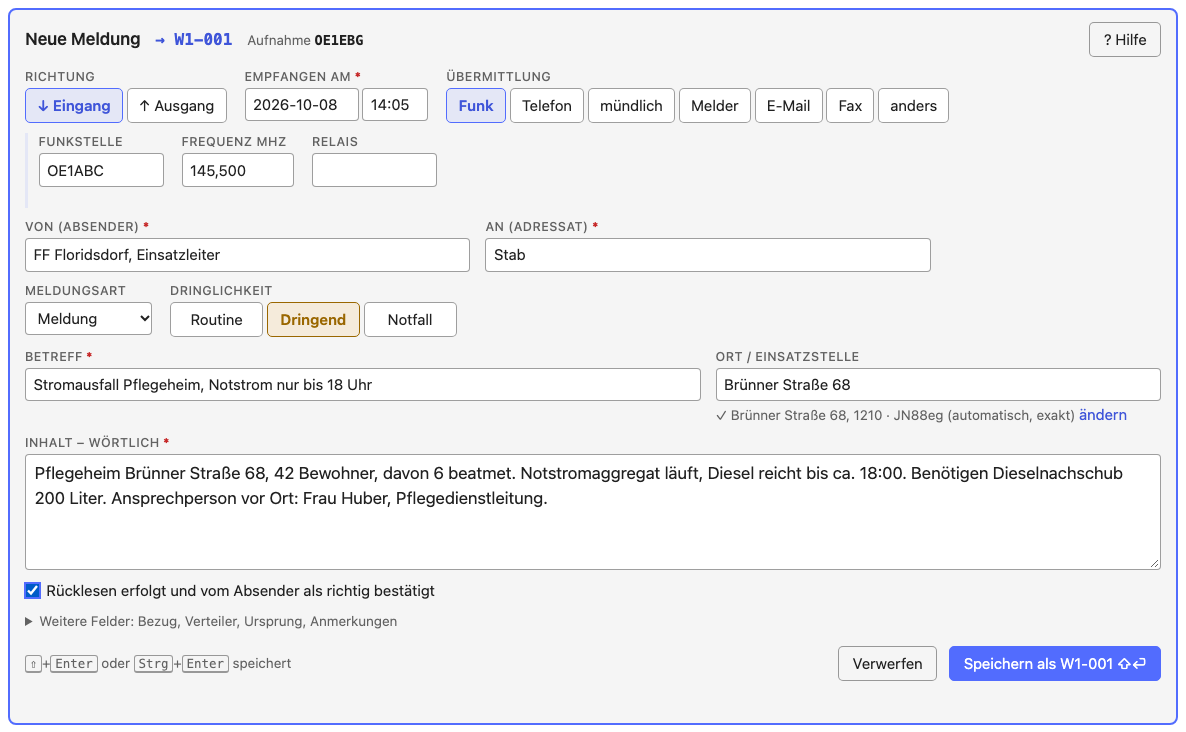
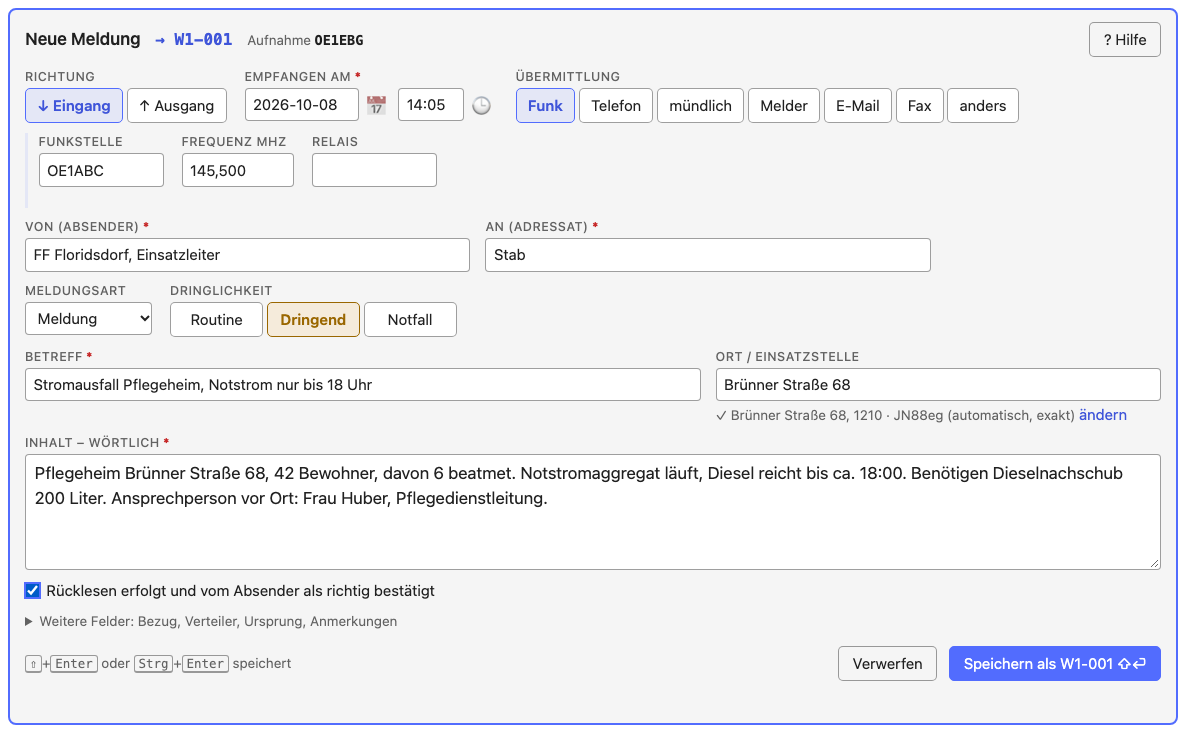
feat(notfunk): own date and time pickers; staff block for the Meldesammelstelle
- js/picker.js: a calendar (week from Monday, German month names) and a
  time grid (hours 00–23, minutes in steps of 5) next to every date and
  time field, with "Heute"/"Jetzt"; an empty field opens on now. They
  write YYYY-MM-DD and HH:MM (24 h), the same in every browser, unlike
  the native pickers. The buttons are no Tab stops; Esc closes; arrows
  and PageUp/PageDown move in the calendar.
- Printout: the block on top is "Nur von der Meldesammelstelle
  auszufüllen" (no longer "/ dem Stab").

Changed region(s): [[0.312, 0.0902, 0.8423, 0.1803]]

diff --git a/tools/notfunk/js/picker.js b/tools/notfunk/js/picker.js
@@ -1,0 +1,166 @@
+// Date and time pickers for the text fields of the message book: a button
+// next to the field opens a small calendar (week from Monday) or a time
+// grid (hours 00–23, minutes in steps of 5). They write the one format of
+// the fields, YYYY-MM-DD and HH:MM (24 hours), never the browser's locale,
+// and work the same everywhere (also Safari 15.4, offline). Typing stays
+// the fast way: the buttons are no Tab stops. An empty field opens on
+// "now" (today, the current hour), and both have a "Jetzt" button.
+//
+// pickerMonth() and shiftMonth() are pure (node-tested); the rest is DOM.
+
+import { el, fill } from '../../shared/js/dom.js';
+import { nowIso } from '../../shared/js/time.js';
+import { dateText, clockText, normDate, normTime } from './form.js';
+
+const MONTH_NAMES = ['Jänner', 'Februar', 'März', 'April', 'Mai', 'Juni', 'Juli', 'August', 'September', 'Oktober', 'November', 'Dezember'];
+const WEEKDAYS = ['Mo', 'Di', 'Mi', 'Do', 'Fr', 'Sa', 'So'];
+
+// 'YYYY-MM' moved by n months.
+export function shiftMonth(ym, n) {
+  const [y, m] = ym.split('-').map(Number);
+  const d = new Date(Date.UTC(y, m - 1 + n, 1));
+  return d.toISOString().slice(0, 7);
+}
+
+// The calendar of a month: { title: 'Oktober 2026', weeks: [[date|null ×7]] },
+// weeks from Monday, dates as 'YYYY-MM-DD'.
+export function pickerMonth(ym) {
+  const [y, m] = ym.split('-').map(Number);
+  const first = (new Date(Date.UTC(y, m - 1, 1)).getUTCDay() + 6) % 7; // Monday = 0
+  const days = new Date(Date.UTC(y, m, 0)).getUTCDate();
+  const cells = [...Array(first).fill(null), ...Array.from({ length: days }, (_, i) => `${ym}-${String(i + 1).padStart(2, '0')}`)];
+  while (cells.length % 7) cells.push(null);
+  const weeks = [];
+  for (let i = 0; i < cells.length; i += 7) weeks.push(cells.slice(i, i + 7));
+  return { title: `${MONTH_NAMES[m - 1]} ${y}`, weeks };
+}
+
+function addDays(date, n) {
+  const [y, m, d] = date.split('-').map(Number);
+  return new Date(Date.UTC(y, m - 1, d + n)).toISOString().slice(0, 10);
+}
+
+let pickerSeq = 0;
+let openPicker = null; // { pop, close }
+
+function setValue(input, value) {
+  input.value = value;
+  input.dispatchEvent(new Event('input', { bubbles: true }));
+  input.dispatchEvent(new Event('change', { bubbles: true }));
+}
+
+// Wraps the input with its button and dropdown; kind 'date' or 'time'.
+// next: the field to focus after a pick (the time field after the date).
+function attachPicker(input, kind, next) {
+  const id = `dt-pop-${++pickerSeq}`;
+  const label = kind === 'date' ? 'Kalender' : 'Uhrzeit wählen';
+  const pop = el('div', { class: 'dt-pop', id, role: 'dialog', 'aria-label': label, hidden: '' });
+  const btn = el('button', {
+    type: 'button', class: 'dt-btn', tabindex: '-1', 'aria-label': label, title: label,
+    'aria-haspopup': 'dialog', 'aria-expanded': 'false', 'aria-controls': id,
+  }, el('span', { 'aria-hidden': 'true' }, kind === 'date' ? '📅' : '🕒'));
+  // inside a <label> the button's name would join the field's: the field
+  // keeps the label's text as its own name
+  const outer = input.closest('label');
+  if (outer && !input.hasAttribute('aria-label') && !input.hasAttribute('aria-labelledby')) input.setAttribute('aria-label', outer.textContent.trim());
+  const wrap = el('span', { class: 'dt-wrap' });
+  input.replaceWith(wrap);
+  wrap.append(input, btn, pop);
+
+  let view = '';   // date: the month shown ('YYYY-MM'); time: the hour chosen
+  let focus = '';  // date: the day with focus
+
+  const close = (back = false) => {
+    if (pop.hidden) return;
+    pop.hidden = true;
+    btn.setAttribute('aria-expanded', 'false');
+    if (openPicker?.pop === pop) openPicker = null;
+    if (back) input.focus();
+  };
+  const pick = value => {
+    setValue(input, value);
+    close();
+    (next || input).focus();
+  };
+
+  const renderDate = () => {
+    const today = dateText(nowIso());
+    const chosen = normDate(input.value) || '';
+    const { title, weeks } = pickerMonth(view);
+    // the one day that is a Tab stop: the focused, chosen or current day
+    // of this month, else the 1st
+    const target = [focus, chosen, today].find(d => d && d.startsWith(view)) || `${view}-01`;
+    const nav = (n, text, name) => el('button', { type: 'button', class: 'dt-nav', 'aria-label': name, onclick: () => { view = shiftMonth(view, n); focus = ''; renderDate(); } }, text);
+    fill(pop,
+      el('div', { class: 'dt-head' }, nav(-1, '‹', 'Voriger Monat'), el('b', { 'aria-live': 'polite' }, title), nav(1, '›', 'Nächster Monat')),
+      el('div', { class: 'dt-grid dt-days', role: 'grid' },
+        ...WEEKDAYS.map(w => el('span', { class: 'dt-wd', 'aria-hidden': 'true' }, w)),
+        ...weeks.flat().map(d => (d
+          ? el('button', {
+            type: 'button', class: ['dt-day', d === today ? 'today' : '', d === chosen ? 'on' : ''].filter(Boolean).join(' '),
+            'data-date': d, tabindex: d === target ? '0' : '-1',
+            'aria-label': `${Number(d.slice(8))}. ${title}`, 'aria-pressed': String(d === chosen), onclick: () => pick(d),
+          }, String(Number(d.slice(8))))
+          : el('span', { class: 'dt-empty' })))),
+      el('div', { class: 'dt-foot' }, el('button', { type: 'button', onclick: () => pick(dateText(nowIso())) }, 'Heute')));
+  };
+
+  const renderTime = () => {
+    const now = clockText(nowIso());
+    const chosen = normTime(input.value) || '';
+    const hour = view || (chosen || now).slice(0, 2);
+    const minute = chosen ? chosen.slice(3) : '';
+    const cell = (text, on, current, onclick, name) => el('button', {
+      type: 'button', class: ['dt-cell', on ? 'on' : '', current ? 'today' : ''].filter(Boolean).join(' '), 'aria-pressed': String(on), 'aria-label': name, onclick,
+    }, text);
+    const hh = Array.from({ length: 24 }, (_, h) => String(h).padStart(2, '0'));
+    const mm = Array.from({ length: 12 }, (_, i) => String(i * 5).padStart(2, '0'));
+    fill(pop,
+      el('div', { class: 'dt-cap' }, 'Stunde'),
+      el('div', { class: 'dt-grid dt-hours' }, ...hh.map(h => cell(h, h === hour, h === now.slice(0, 2), () => { view = h; renderTime(); pop.querySelector('.dt-mins button')?.focus(); }, `${h} Uhr`))),
+      el('div', { class: 'dt-cap' }, 'Minute'),
+      el('div', { class: 'dt-grid dt-mins' }, ...mm.map(m => cell(`:${m}`, chosen.slice(0, 2) === hour && m === minute, false, () => pick(`${hour}:${m}`), `${hour}:${m}`))),
+      el('div', { class: 'dt-foot' }, el('button', { type: 'button', onclick: () => pick(now) }, 'Jetzt')));
+  };
+
+  const open = () => {
+    openPicker?.close();
+    if (kind === 'date') { view = (normDate(input.value) || dateText(nowIso())).slice(0, 7); focus = ''; renderDate(); } else { view = ''; renderTime(); }
+    pop.hidden = false;
+    btn.setAttribute('aria-expanded', 'true');
+    openPicker = { pop, close };
+    (pop.querySelector('.dt-day[tabindex="0"]') || pop.querySelector('.dt-hours .dt-cell.on') || pop.querySelector('button'))?.focus();
+  };
+
+  btn.addEventListener('click', () => (pop.hidden ? open() : close(true)));
+  pop.addEventListener('keydown', ev => {
+    if (ev.key === 'Escape') { ev.preventDefault(); ev.stopPropagation(); close(true); return; }
+    const day = ev.target.closest?.('.dt-day');
+    if (!day || kind !== 'date') return;
+    const step = { ArrowLeft: -1, ArrowRight: 1, ArrowUp: -7, ArrowDown: 7 }[ev.key];
+    const months = { PageUp: -1, PageDown: 1 }[ev.key];
+    if (!step && !months) return;
+    ev.preventDefault();
+    if (step) focus = addDays(day.dataset.date, step);
+    else { const [y, m, d] = day.dataset.date.split('-'); view = shiftMonth(`${y}-${m}`, months); focus = `${view}-${d}`; }
+    if (focus.slice(0, 7) !== view) view = focus.slice(0, 7);
+    renderDate();
+    // a day past the month's end (31 → 30) falls back to the last day
+    (pop.querySelector(`[data-date="${focus}"]`) || [...pop.querySelectorAll('.dt-day')].pop())?.focus();
+  });
+}
+
+// One click or tap outside closes the open picker.
+globalThis.document?.addEventListener('pointerdown', ev => {
+  if (openPicker && !openPicker.pop.parentNode.contains(ev.target)) openPicker.close();
+});
+
+// The pickers for a date + time pair (time optional) and for lone time fields.
+export function attachDatePicker(dateInput, timeInput = null) {
+  attachPicker(dateInput, 'date', timeInput);
+  if (timeInput) attachPicker(timeInput, 'time', null);
+}
+
+export function attachTimePicker(timeInput) {
+  attachPicker(timeInput, 'time', null);
+}

diff --git a/tools/notfunk/style.css b/tools/notfunk/style.css
@@ -114,9 +114,38 @@ details.hdr .hint{ margin:.6em 0 0; }
 /* date and time side by side (text in a fixed format, never the browser's
    locale; the zone choice only in the
    hour that repeats when the clocks go back) */
-.dt-pair{ display:flex; flex-wrap:wrap; gap:.3em; align-items:center; }
-.dt-pair input.dt-date{ width:7.6em; }
-.dt-pair input.dt-time{ width:4.4em; }
+.dt-pair{ display:flex; flex-wrap:wrap; gap:.3em .5em; align-items:center; }
+/* field + picker button + dropdown (js/picker.js); the dropdown keeps its
+   own text style inside the uppercase field labels */
+label.field > span.dt-wrap, .dt-wrap{ position:relative; display:inline-flex; align-items:center; gap:.15em; text-transform:none; letter-spacing:0; font-weight:normal; color:var(--text); }
+.dt-wrap > input.dt-date.mono{ width:7.6em; flex:none; box-sizing:border-box; }
+.dt-wrap > input.dt-time.mono{ width:4.4em; flex:none; box-sizing:border-box; }
+.dt-btn{ padding:.2em .35em; line-height:1.2; font-size:15px; background:none; border-color:transparent; }
+.dt-btn:hover{ border-color:var(--line-strong); }
+.dt-pop{
+  position:absolute; top:calc(100% + 2px); left:0; z-index:30; width:max-content;
+  padding:.45em; background:var(--bg); border:1px solid var(--accent); border-radius:6px; box-shadow:0 6px 18px #0003;
+  font-size:14px;
+}
+.dt-pop[hidden]{ display:none !important; }
+.dt-head{ display:flex; align-items:center; justify-content:space-between; gap:.5em; margin-bottom:.3em; }
+.dt-nav{ padding:.1em .6em; font-size:16px; }
+.dt-grid{ display:grid; gap:2px; }
+.dt-days{ grid-template-columns:repeat(7, 2.3em); }
+.dt-hours{ grid-template-columns:repeat(6, 2.6em); }
+.dt-mins{ grid-template-columns:repeat(6, 2.6em); }
+.dt-wd{ text-align:center; font-size:12.5px; color:var(--text-dim); padding:.15em 0; }
+.dt-day, .dt-cell{ padding:.3em 0; font-family:var(--font-mono); font-size:14px; border-color:transparent; background:none; }
+.dt-day:hover, .dt-cell:hover, .dt-day:focus, .dt-cell:focus{ background:var(--accent-soft); outline:none; }
+.dt-day.today, .dt-cell.today{ border-color:var(--line-strong); }
+.dt-day.on, .dt-cell.on{ border-color:var(--accent); color:var(--accent-text); font-weight:700; background:var(--accent-soft); }
+.dt-cap{ font-size:12.5px; color:var(--text-dim); margin:.3em 0 .15em; }
+.dt-foot{ display:flex; justify-content:flex-end; margin-top:.4em; }
+@media (pointer: coarse){
+  .dt-btn{ min-width:44px; }
+  .dt-days{ grid-template-columns:repeat(7, 2.8em); }
+  .dt-hours, .dt-mins{ grid-template-columns:repeat(6, 3em); }
+}
 .row-flow .channel-field{ flex:1 1 20em; min-width:0; }
 
 /* the priority buttons: equal width and height */

diff --git a/tools/notfunk/js/app.js b/tools/notfunk/js/app.js
@@ -37,6 +37,7 @@ import {
 } from './form.js';
 import { formSheet, blankFormSheet, bookSheet } from './print.js';
 import { renderFormSheet, fittedFormSheet, renderBookSheet, printSheet } from './printview.js';
+import { attachDatePicker, attachTimePicker } from './picker.js';
 
 const LAST_OP_KEY = 'oe1ebg-notfunk-last-op';
 const PRINT_HINT_KEY = 'oe1ebg-notfunk-print-hint-off';
@@ -812,6 +813,13 @@ function initForm() {
     if (norm && norm !== t.value) { t.value = norm; t.dispatchEvent(new Event('input', { bubbles: true })); }
   });
 
+  // Calendar and time grid next to the date and time fields.
+  attachDatePicker($('#m-date'), $('#m-time'));
+  attachTimePicker($('#m-stichzeit'));
+  attachTimePicker($('#m-orig-filed'));
+  attachDatePicker($('#pr-from-date'), $('#pr-from-time'));
+  attachDatePicker($('#pr-to-date'), $('#pr-to-time'));
+
   // Completion: stations heard in this operation first, then the callbook.
   let recent = [];
   const refreshRecent = async () => { recent = (await recentStations()).filter(s => s.call).map(s => ({ call: s.call, title: s.text })); };
@@ -1023,7 +1031,9 @@ function inlineForm(fields, button, onSubmit) {
       return el('label', { class: 'check', for: id }, inputs[f.key], ` ${f.label}`);
     }
     inputs[f.key] = el('input', { id, class: f.time ? 'mono dt-time' : f.mono ? 'mono' : null, inputmode: f.time ? 'numeric' : null, maxlength: f.time ? '5' : null, placeholder: f.time ? 'HH:MM' : f.placeholder || null, value: f.value || '', autocomplete: 'off' });
-    return el('label', { class: 'field', for: id }, el('span', {}, f.label, f.time ? el('span', { class: 'dim' }, ' (leer = jetzt)') : null), inputs[f.key]);
+    const row = el('label', { class: 'field', for: id }, el('span', {}, f.label, f.time ? el('span', { class: 'dim' }, ' (leer = jetzt)') : null), inputs[f.key]);
+    if (f.time) attachTimePicker(inputs[f.key]);
+    return row;
   });
   const form = el('form', { class: 'inline-form', autocomplete: 'off', novalidate: '' },
     el('div', { class: 'inline-fields' }, ...rows.filter(r => r.classList.contains('field'))),

diff --git a/tools/notfunk/index.html b/tools/notfunk/index.html
@@ -373,7 +373,7 @@
       <section id="h-when" aria-labelledby="h-when-t">
         <h3 id="h-when-t">Zeiten</h3>
         <dl class="kb">
-          <dt>Empfangen am / Gesendet am</dt><dd>wann die Meldung übermittelt wurde, in Ortszeit: Datum als <span class="ex">2026-10-08</span>, Uhrzeit im 24-Stunden-Format als <span class="ex">14:05</span> (auch <span class="ex">20261008</span> und <span class="ex">1405</span>). Beim ersten Tastendruck mit jetzt vorbelegt und korrigierbar. Bei Nachträgen vom Papier das tatsächliche Datum und die Uhrzeit eintragen. In der Nacht der Zeitumstellung im Oktober gibt es 02:00–02:59 zweimal: dann fragt das Formular, ob das 1. Mal (Sommerzeit) oder das 2. Mal (Winterzeit) gemeint ist.</dd>
+          <dt>Empfangen am / Gesendet am</dt><dd>wann die Meldung übermittelt wurde, in Ortszeit: Datum als <span class="ex">2026-10-08</span>, Uhrzeit im 24-Stunden-Format als <span class="ex">14:05</span> (auch <span class="ex">20261008</span> und <span class="ex">1405</span>). 📅 und 🕒 neben den Feldern öffnen einen Kalender bzw. eine Uhrzeit-Auswahl. Beim ersten Tastendruck mit jetzt vorbelegt und korrigierbar. Bei Nachträgen vom Papier das tatsächliche Datum und die Uhrzeit eintragen. In der Nacht der Zeitumstellung im Oktober gibt es 02:00–02:59 zweimal: dann fragt das Formular, ob das 1. Mal (Sommerzeit) oder das 2. Mal (Winterzeit) gemeint ist.</dd>
           <dt>Erfasst am</dt><dd>wann die Meldung hier gespeichert wurde; automatisch.</dd>
           <dt>Aufgabezeit</dt><dd>wann die Meldung bei der Ursprungsstation aufgegeben wurde; nur die Uhrzeit (die letzte vor der Meldung, nach Mitternacht also vom Vortag).</dd>
           <dt>Stichzeit</dt><dd>nur bei Lagemeldungen: auf welche Uhrzeit sich die Lage bezieht (wie die Aufgabezeit).</dd>

diff --git a/tools/notfunk/js/printview.js b/tools/notfunk/js/printview.js
@@ -64,8 +64,8 @@ function directionTiles(s) {
 
 function staffBlock(s) {
   const field = (label, value = '') => el('div', {}, cap(label), el('span', { class: 'pf-line' }, value));
-  return el('section', { class: 'pf-staff', 'aria-label': 'Nur von der Meldesammelstelle / dem Stab auszufüllen' },
-    el('div', { class: 'pf-staff-head' }, 'Nur von der Meldesammelstelle / dem Stab auszufüllen'),
+  return el('section', { class: 'pf-staff', 'aria-label': 'Nur von der Meldesammelstelle auszufüllen' },
+    el('div', { class: 'pf-staff-head' }, 'Nur von der Meldesammelstelle auszufüllen'),
     el('div', { class: 'pf-staff-grid' },
       field('Referenz / Geschäftsbuch-Nr.', s.staffRef), field('Federführend'), field('Mitwirkend'), field('Zur Kenntnis')));
 }

diff --git a/tools/notfunk/js/print.js b/tools/notfunk/js/print.js
@@ -6,7 +6,7 @@
 //    with the fields of the ÖBFV E-31 form (SKKM Richtlinie 4.10.1): Ein/Aus,
 //    Datum/Uhrzeit (Austrian local time), Übermittlung, Von, An, Betreff,
 //    Inhalt, Name/Unterschrift, Anmerkungen; a block "Nur von der
-//    Meldesammelstelle / dem Stab auszufüllen" (Referenz, federführend,
+//    Meldesammelstelle auszufüllen" (Referenz, federführend,
 //    mitwirkend, zur Kenntnis; only the reference is filled in, once it was
 //    reported back) and the handover (Eingang) or transmission (Ausgang).
 //    blankFormSheet(): the same form empty, to print a stack of them for

diff --git a/tools/notfunk/README.md b/tools/notfunk/README.md
@@ -123,14 +123,14 @@ name, and a distribution list ("Verteiler").
 | Record layout | One record per message with the SKKM Meldeaufnahmeformular fields: direction, number, time, channel, from/to, subject, verbatim text, operator, remarks. Notfunk extras: the radio station (Funkstelle) apart from the sender/addressee, frequency/relay, station and place of origin, filing time (relayed traffic), read-back, location of the event (Ort / Einsatzstelle), Bezug (answer, correction or addition to a number), distribution, the Meldesammelstelle's reference. | SKKM 4.10.1, E-31, ÖVSV § 6.7, ARENA |
 | Numbering | `<station prefix>-<running number>` (e.g. `W1-007`), gapless per operation and prefix, never reused. Each device or station gets its own prefix, so logs from several devices merge without collisions. The staff's own number ("Referenz Meldesammelstelle / Geschäftsbuch-Nr.", `staffRef`) is a separate field, filled in once it is reported back, only to match the two lists; it is never called "Nr." or "GZ" in the tool. | #31; E-31 keeps GZ and ETB numbers separate too |
 | Number safety | Taken only when saving, in the **same storage transaction** as the message and the counter (`shared/js/storage.js` `atomic()`). A failed save consumes nothing, and two tabs can't take the same number. The next number is max(counter, highest stored) + 1, so even a lost counter write never reuses one. A restore never lowers a counter. | `js/numbering.js`, tested |
-| Time | Stored as ISO 8601 UTC. Typed, shown, printed and exported **only in Austrian local time** (`Europe/Vienna` via Intl, whatever the device's zone) as `YYYY-MM-DD hh:mm` (ISO 8601 date, 24-hour time; never the browser's locale, so no US month/day order and no AM/PM), no zone and no UTC: the zone (MESZ/MEZ) appears only in the hour that repeats when the clocks go back (last Sunday of October, 02:00–02:59), where the form asks which one is meant (`#m-zone`, preset to the occurrence nearer now). The CSV adds "Zeitstempel (ISO 8601)" with the offset (`2026-10-05T14:07:00+02:00`) for programs. A DTG isn't used: no Austrian civil source uses it. The message time is "Empfangen am" / "Gesendet am": a date and a time field (text in a fixed format, `YYYY-MM-DD` and `HH:MM`; `20261008`, `1405` and `14.05` are read too and shown formatted on leaving the field; native date/time inputs were dropped because they show the browser's locale, e.g. MM/DD/YYYY and AM/PM), prefilled at the first keystroke of a new message (so midnight and paper entries stay right), correctable; Stichzeit, Aufgabezeit and the handover times are times of day only, read as the latest such time at most 5 min after the message (or now), so after midnight the day before (`readClock()`); the time it was saved (`created`, "Erfasst am") is kept apart. | E-31; ARENA uses UTC |
+| Time | Stored as ISO 8601 UTC. Typed, shown, printed and exported **only in Austrian local time** (`Europe/Vienna` via Intl, whatever the device's zone) as `YYYY-MM-DD hh:mm` (ISO 8601 date, 24-hour time; never the browser's locale, so no US month/day order and no AM/PM), no zone and no UTC: the zone (MESZ/MEZ) appears only in the hour that repeats when the clocks go back (last Sunday of October, 02:00–02:59), where the form asks which one is meant (`#m-zone`, preset to the occurrence nearer now). The CSV adds "Zeitstempel (ISO 8601)" with the offset (`2026-10-05T14:07:00+02:00`) for programs. A DTG isn't used: no Austrian civil source uses it. The message time is "Empfangen am" / "Gesendet am": a date and a time field (text in a fixed format, `YYYY-MM-DD` and `HH:MM`; `20261008`, `1405` and `14.05` are read too and shown formatted on leaving the field; native date/time inputs were dropped because they show the browser's locale, e.g. MM/DD/YYYY and AM/PM; instead `js/picker.js` adds a calendar (week from Monday) and a time grid (hours 00–23, minutes in steps of 5) with "Heute"/"Jetzt", same in every browser, opening on now when the field is empty; their buttons are no Tab stops), prefilled at the first keystroke of a new message (so midnight and paper entries stay right), correctable; Stichzeit, Aufgabezeit and the handover times are times of day only, read as the latest such time at most 5 min after the message (or now), so after midnight the day before (`readClock()`); the time it was saved (`created`, "Erfasst am") is kept apart. | E-31; ARENA uses UTC |
 | Urgency ("Dringlichkeit") | Provisional: Routine / Dringend / Notfall (IARU/ARENA precedences; keys `routine`/`priority`/`emergency`). No "Stab herhören!" box: it was in earlier drafts (`alarm`, `alarmDone` with the announcement) and dropped as too much; such fields in old records are kept but not shown. | No Austrian staff scheme exists; open question |
 | Message type | Meldung / Auftrag / Frage / Anforderung / Lagemeldung | LFV Salzburg (Meldung/Befehl/Frage), SKKM special forms |
 | Status | In the words of the direction. Eingang: erfasst → übergeben (to whom, when) → übernommen (by whom, when). Ausgang: zur Übertragung → übertragen (to which station, when, read back) → Empfang bestätigt (by whom, when); failed attempts / queries are logged without changing the status. Each step once, the handover never goes back; "beantwortet" comes from saving a reply and doesn't block recording the handover later. None of the steps means that an order in the text was carried out. Stored keys unchanged (`forwarded`, `acknowledged`), so older data reads as übergeben/übertragen and übernommen/Empfang bestätigt. | #31, handover note of Oct 2026 |
 | Edits, deletes | Edits keep the previous version as a revision. Deletes are soft, and a deleted message keeps its number. | #31, ÖVSV § 6.7 (complete records) |
 | Exports | **Geschäftsbuch CSV** (E-31 columns + Notfunk fields; `;` with BOM for Excel de-AT), JSON backup/restore. Planned: KMZ for messages with a location (#27). | E-31 forms |
 | Print / PDF | Through the browser's print dialog ("Als PDF sichern"), no PDF library: an A4 layout (`@page`, the `.pf-*` rules in `style.css`). Three printouts: the **Meldeaufnahmeformular** of one message on **one A4 page** ("Fassung n" to match the edit history), the **message book** for a time range (Geschäftsbuch columns, header repeated on each page), and an **empty form** to print a stack of (number of copies in the print dialog). The form page has no page margin (`printview.js` sets the `@page` margin to 0 while it prints; not a named page, Safari ignores those), which keeps Chrome's and Edge's header/footer lines off it. The sheet is 276 mm high, sized for Safari: WebKit (macOS and iOS) prints 1 CSS px as 0.8 pt, so its A4 page is only 197 × 278 mm in CSS units, and a full 296 mm sheet spilled onto a second page; a dialog before the first print says to switch "Kopf- und Fußzeilen" off (can be turned off). A long text first gets tighter spacing, then a smaller font down to 10 pt (`fitForm()` measures the sheet off-screen); beyond that (about 2,500 characters) it flows over several pages with the number on each, and the dialog says so first. | E-31 forms; works offline and on iOS; handover note of Oct 2026 |
-| Paper form design | White, thin lines, no filled areas (nothing depends on printed backgrounds; saves toner, works in black and white, also from the dark theme). On top: title, **↓ EINGANG \| ↑ AUSGANG** (the chosen one with a thick frame and ✕, the other pale), a big box for the Notfunk-Nr.; then one dashed row **"Nur von der Meldesammelstelle / dem Stab auszufüllen"** (Referenz / Geschäftsbuch-Nr., Federführend, Mitwirkend, Zur Kenntnis; only the reference is filled in); two narrow rows for Empfangen/Gesendet am (date · time, Erfasst), Übermittlung, Dringlichkeit (one joined block) and Meldungsart; Von/An (with the Funkstelle), Betreff/Ort/Bezug; the verbatim text takes the rest of the page; then Aufgenommen von, Anmerkungen, and the handover (Eingang) or transmission (Ausgang). A **circle** = choose one, a **square** = an extra mark. Frequency and relay stay in the book, not on paper. | common paper-form conventions; reviewed as a mockup (Oct 2026) |
+| Paper form design | White, thin lines, no filled areas (nothing depends on printed backgrounds; saves toner, works in black and white, also from the dark theme). On top: title, **↓ EINGANG \| ↑ AUSGANG** (the chosen one with a thick frame and ✕, the other pale), a big box for the Notfunk-Nr.; then one dashed row **"Nur von der Meldesammelstelle auszufüllen"** (Referenz / Geschäftsbuch-Nr., Federführend, Mitwirkend, Zur Kenntnis; only the reference is filled in); two narrow rows for Empfangen/Gesendet am (date · time, Erfasst), Übermittlung, Dringlichkeit (one joined block) and Meldungsart; Von/An (with the Funkstelle), Betreff/Ort/Bezug; the verbatim text takes the rest of the page; then Aufgenommen von, Anmerkungen, and the handover (Eingang) or transmission (Ausgang). A **circle** = choose one, a **square** = an extra mark. Frequency and relay stay in the book, not on paper. | common paper-form conventions; reviewed as a mockup (Oct 2026) |
 
 ## Using it
 

diff --git a/docs/notfunk-anleitung.md b/docs/notfunk-anleitung.md
@@ -94,7 +94,7 @@ Das Formular steht im Meldebuch ganz oben. Die nächste Nummer wird angezeigt
 | Feld | Bedeutung | Beispiel |
 | --- | --- | --- |
 | Richtung | Eingang (↓) oder Ausgang (↑) | |
-| Empfangen am / Gesendet am | wann die Meldung übermittelt wurde: Datum (JJJJ-MM-TT) und Uhrzeit (HH:MM, 24 Stunden) in zwei Feldern, Ortszeit. Wird beim ersten Tastendruck mit jetzt vorbelegt und kann korrigiert werden. `20261008` und `1405` gehen auch. | 2026-10-08 · 14:05 |
+| Empfangen am / Gesendet am | wann die Meldung übermittelt wurde: Datum (JJJJ-MM-TT) und Uhrzeit (HH:MM, 24 Stunden) in zwei Feldern, Ortszeit. Wird beim ersten Tastendruck mit jetzt vorbelegt und kann korrigiert werden. `20261008` und `1405` gehen auch. 📅 öffnet einen Kalender, 🕒 eine Uhrzeit-Auswahl (Stunde, dann Minute), beide mit „Heute“ bzw. „Jetzt“. | 2026-10-08 · 14:05 |
 | Übermittlung | Funk, Telefon, mündlich, Melder, E-Mail, Fax, anders | Funk |
 | Funkstelle | die Funkstation, von der die Meldung gehört wurde (Eingang) bzw. an die sie gesendet wird (Ausgang); nur bei Funk | OE1ABC |
 | Frequenz MHz, Relais | Vorgabe aus dem Einsatz; Komma oder Punkt | 145,500 · OE1XUU |
@@ -248,7 +248,7 @@ Linien, keine schwarzen Flächen, auch aus der dunklen Ansicht.
 
 - Oben die Richtung (**↓ EINGANG** oder **↑ AUSGANG**, die gewählte mit
   dickem Rahmen und ✕) und die Notfunk-Nummer.
-- Darunter der Block **„Nur von der Meldesammelstelle / dem Stab
+- Darunter der Block **„Nur von der Meldesammelstelle
   auszufüllen“**: Referenz / Geschäftsbuch-Nr. (vorbelegt, wenn schon
   bekannt), Federführend, Mitwirkend, Zur Kenntnis.
 - Datum und Uhrzeit (Ortszeit) in einem Feld: „2026-10-08 · 14:05“, dazu
